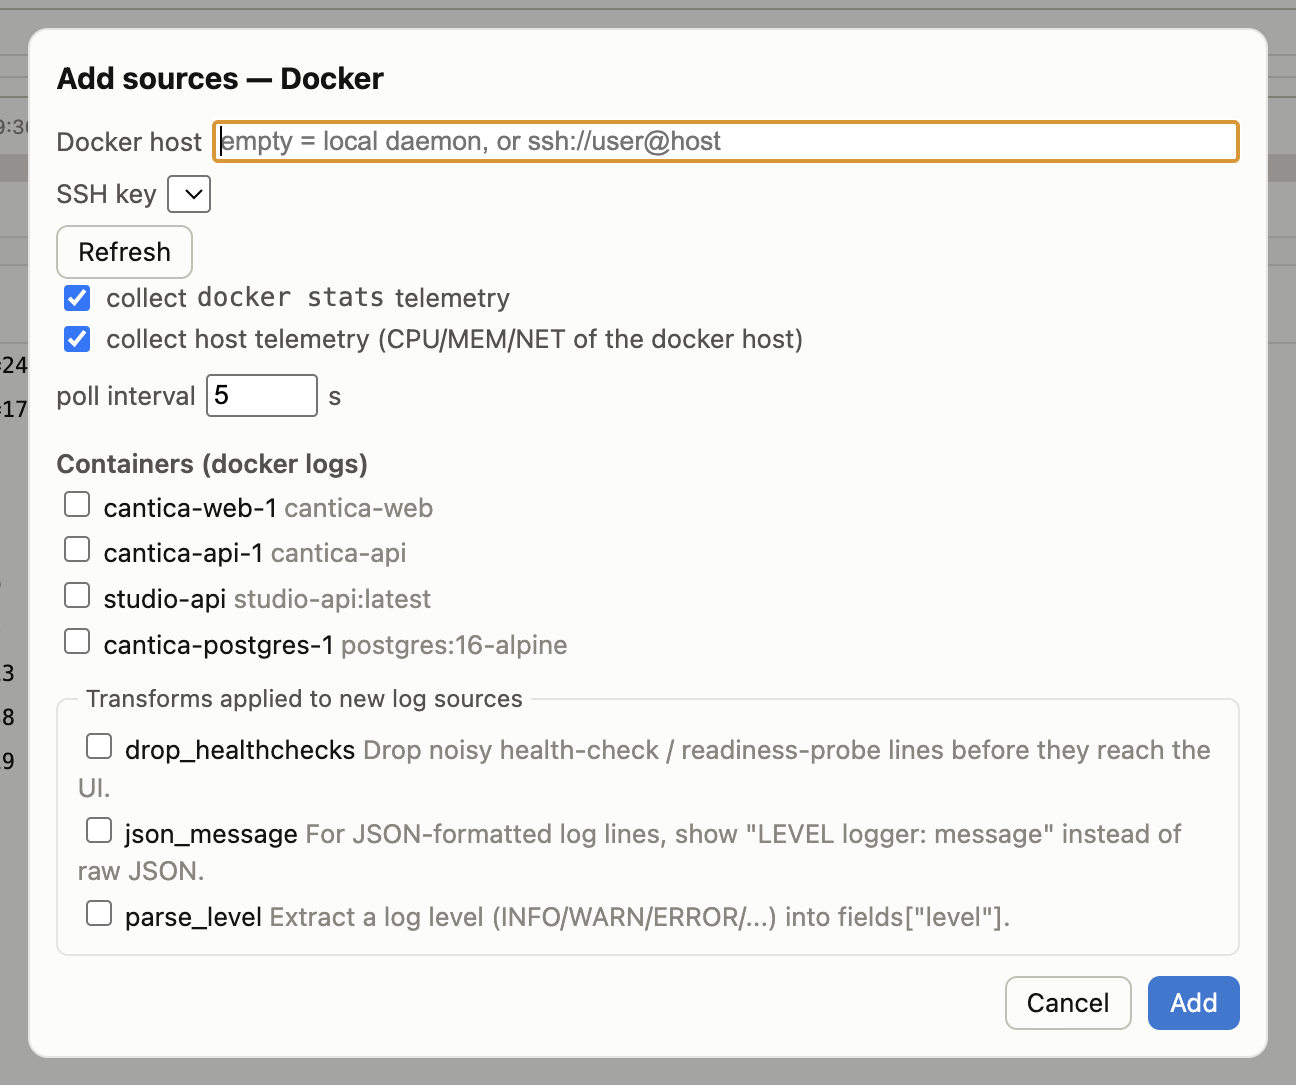
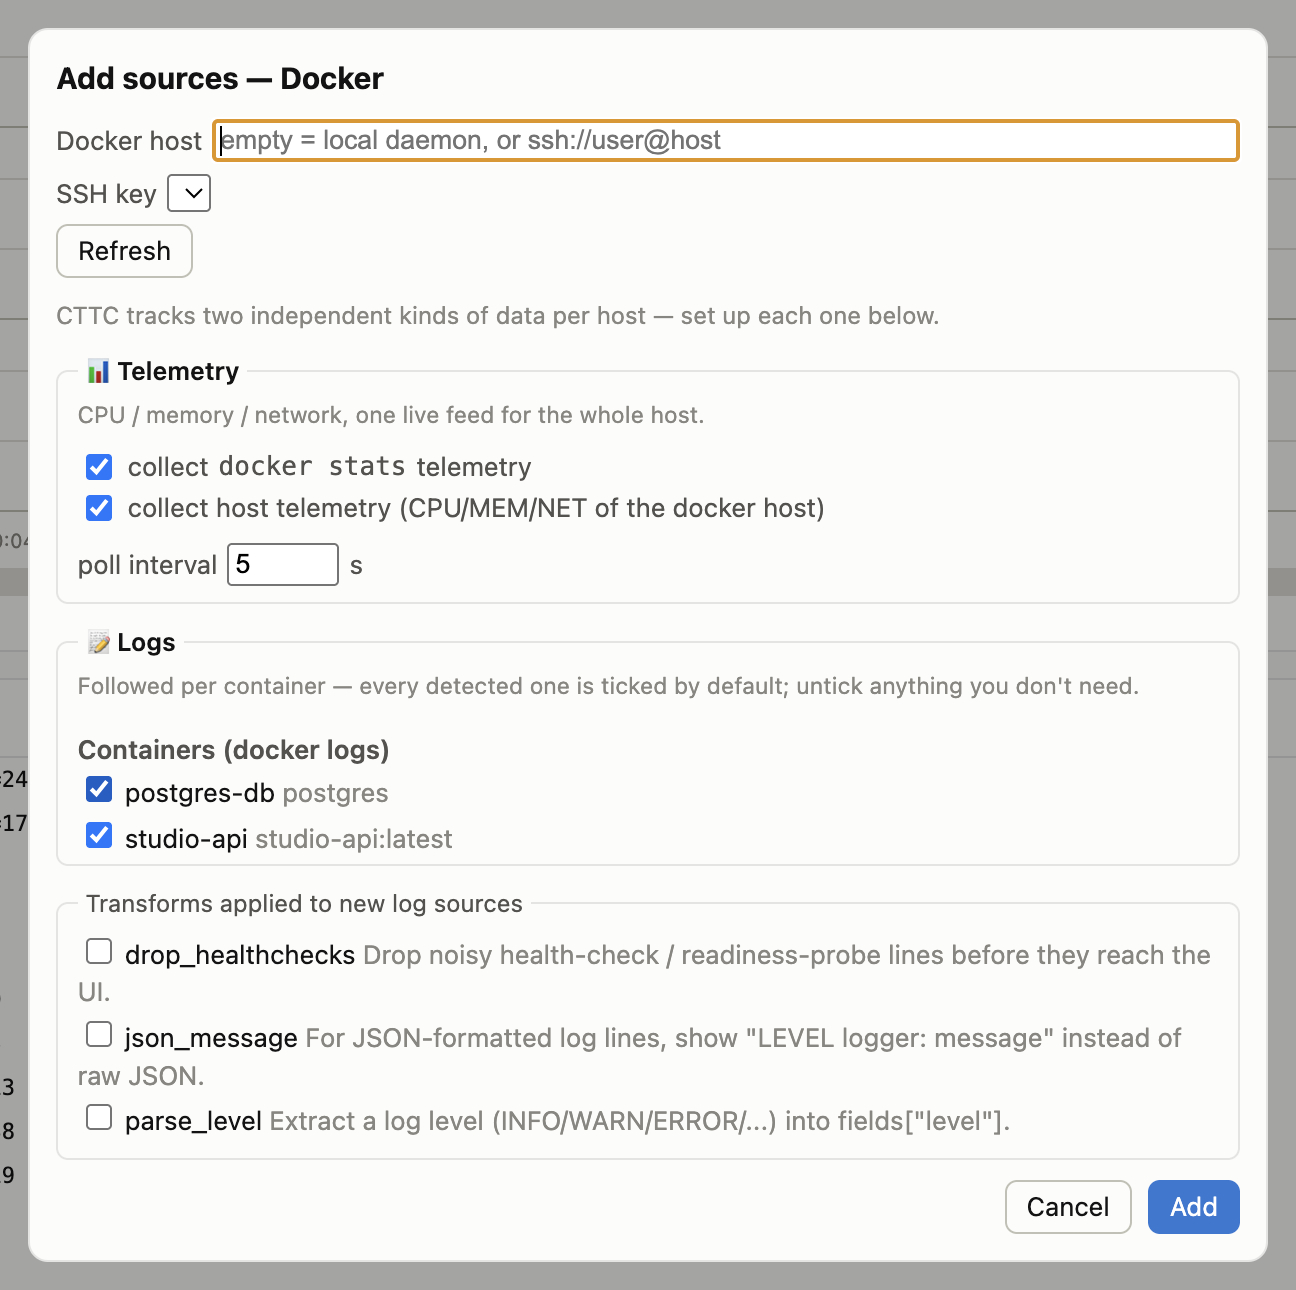
feat(add-sources): default-check everything; split telemetry vs logs
Detected containers/services are now ticked by default (previously only
the two telemetry checkboxes were), so a single click on Add follows
every running container's logs and plots its telemetry immediately.

The dialog is restructured into two labeled sections — 📊 Telemetry and
📝 Logs — with a one-line explanation above each, plus an intro sentence
clarifying these are independent kinds of data. Addresses confusion where
users collected telemetry but never realized logs needed a separate
per-container opt-in.

Manual and its Add-sources screenshot updated to match.

diff --git a/app/renderer/index.html b/app/renderer/index.html
@@ -87,11 +87,25 @@
         <button id="btn-ps-refresh" title="Reload the list of containers/services from this host">Refresh</button>
       </div>
       <div id="docker-error" class="error"></div>
+    </div>
+
+    <p class="dlg-intro muted">
+      CTTC tracks two independent kinds of data per host — set up each one below.
+    </p>
+
+    <fieldset class="dlg-section">
+      <legend>📊 Telemetry</legend>
+      <p class="dlg-section-help muted">CPU / memory / network, one live feed for the whole host.</p>
       <label class="ctl"><input id="docker-stats" type="checkbox" checked /> collect <code>docker stats</code> telemetry <span id="docker-stats-note" class="tdoc"></span></label>
       <label class="ctl"><input id="docker-host-stats" type="checkbox" checked /> collect host telemetry (CPU/MEM/NET of the docker host) <span id="docker-host-stats-note" class="tdoc"></span></label>
       <label class="ctl block">poll interval <input id="docker-interval" type="number" min="1" value="5" /> s</label>
+    </fieldset>
+
+    <fieldset class="dlg-section">
+      <legend>📝 Logs</legend>
+      <p class="dlg-section-help muted">Followed per container — every detected one is ticked by default; untick anything you don't need.</p>
       <div id="docker-targets"></div>
-    </div>
+    </fieldset>
 
     <fieldset id="transforms-box">
       <legend>Transforms applied to new log sources</legend>

diff --git a/app/renderer/style.css b/app/renderer/style.css
@@ -491,6 +491,10 @@ dialog h2 { margin: 0 0 10px; font-size: 15px; }
 #docker-targets .group { font-weight: 600; margin-top: 6px; color: var(--text-secondary); }
 #transforms-box { border: 1px solid var(--border); border-radius: 6px; margin: 8px 0; }
 #transforms-box legend { font-size: 12px; color: var(--text-secondary); padding: 0 4px; }
+.dlg-intro { margin: 10px 0 6px; font-size: 12px; }
+.dlg-section { border: 1px solid var(--border); border-radius: 6px; margin: 10px 0; padding-bottom: 2px; }
+.dlg-section legend { font-size: 12.5px; font-weight: 600; color: var(--text-primary); padding: 0 4px; }
+.dlg-section-help { margin: 0 0 8px; font-size: 11.5px; }
 #transforms-list label { display: block; padding: 1px 0; color: var(--text-primary); }
 #transforms-list .tdoc { color: var(--muted); }
 .dlg-actions { display: flex; justify-content: flex-end; gap: 8px; margin-top: 10px; }

diff --git a/app/renderer/app.js b/app/renderer/app.js
@@ -2054,6 +2054,7 @@ async function listContainers() {
         const label = document.createElement("label");
         const cb = document.createElement("input");
         cb.type = "checkbox";
+        cb.checked = true; // every detected container/service is followed by default
         cb.value = it.name;
         cb.dataset.type = type;
         label.append(cb, ` ${it.name} `);

diff --git a/MANUAL.md b/MANUAL.md
@@ -103,22 +103,28 @@ space; the position is remembered.
 interval, and the transforms list](docs/images/dlg-add-sources.png)
 
 **＋ Add sources** attaches to a Docker daemon. Leave the host field empty
-for the local daemon. The dialog lists the running containers and swarm
-services (use **Refresh** to re-list); tick the ones whose logs you want to
-follow. Logs are streamed with `docker logs -f -t` (or
-`docker service logs -f -t` for swarm services).
+for the local daemon. Telemetry and logs are two independent kinds of data
+CTTC can collect, so the dialog splits them into two sections — **everything
+in both is ticked by default**; untick whatever you don't want.
 
-Two checkboxes control telemetry, both on by default:
-
-- **collect `docker stats` telemetry** — polls CPU/MEM/NET for *every*
-  container on the host on the chosen interval. Only the containers you
-  ticked are *plotted*; the rest wait in the legend's *others* group (see
+- **📊 Telemetry** — two checkboxes:
+  - **collect `docker stats` telemetry** — polls CPU/MEM/NET for *every*
+    container on the host on the chosen interval. Only *selected* containers
+    (see below) are actually *plotted*; the rest wait in the legend's
+    *others* group (see [The container legend](#the-container-legend)).
+  - **collect host telemetry** — CPU/MEM/NET of the docker host machine
+    itself, shown in its own strip group at the bottom.
+- **📝 Logs** — the dialog lists the running containers and swarm services
+  (use **Refresh** to re-list); every one is ticked, which both starts
+  following its logs (`docker logs -f -t`, or `docker service logs -f -t`
+  for swarm services) *and* marks it *selected* so its telemetry plots
+  immediately. Untick anything you don't want followed and plotted yet — you
+  can always right-click it later to track it (see
   [The container legend](#the-container-legend)).
-- **collect host telemetry** — CPU/MEM/NET of the docker host machine
-  itself, shown in its own strip group at the bottom.
 
-Anything already being collected shows as *already added* and cannot be
-added twice. Ticked transforms (see [Transforms](#transforms)) apply to the
+Anything already being collected shows as *already added*, is checked but
+disabled, and cannot be added twice. Ticked transforms (see
+[Transforms](#transforms)) apply to the
 new log sources.
 
 ### Remote hosts over SSH